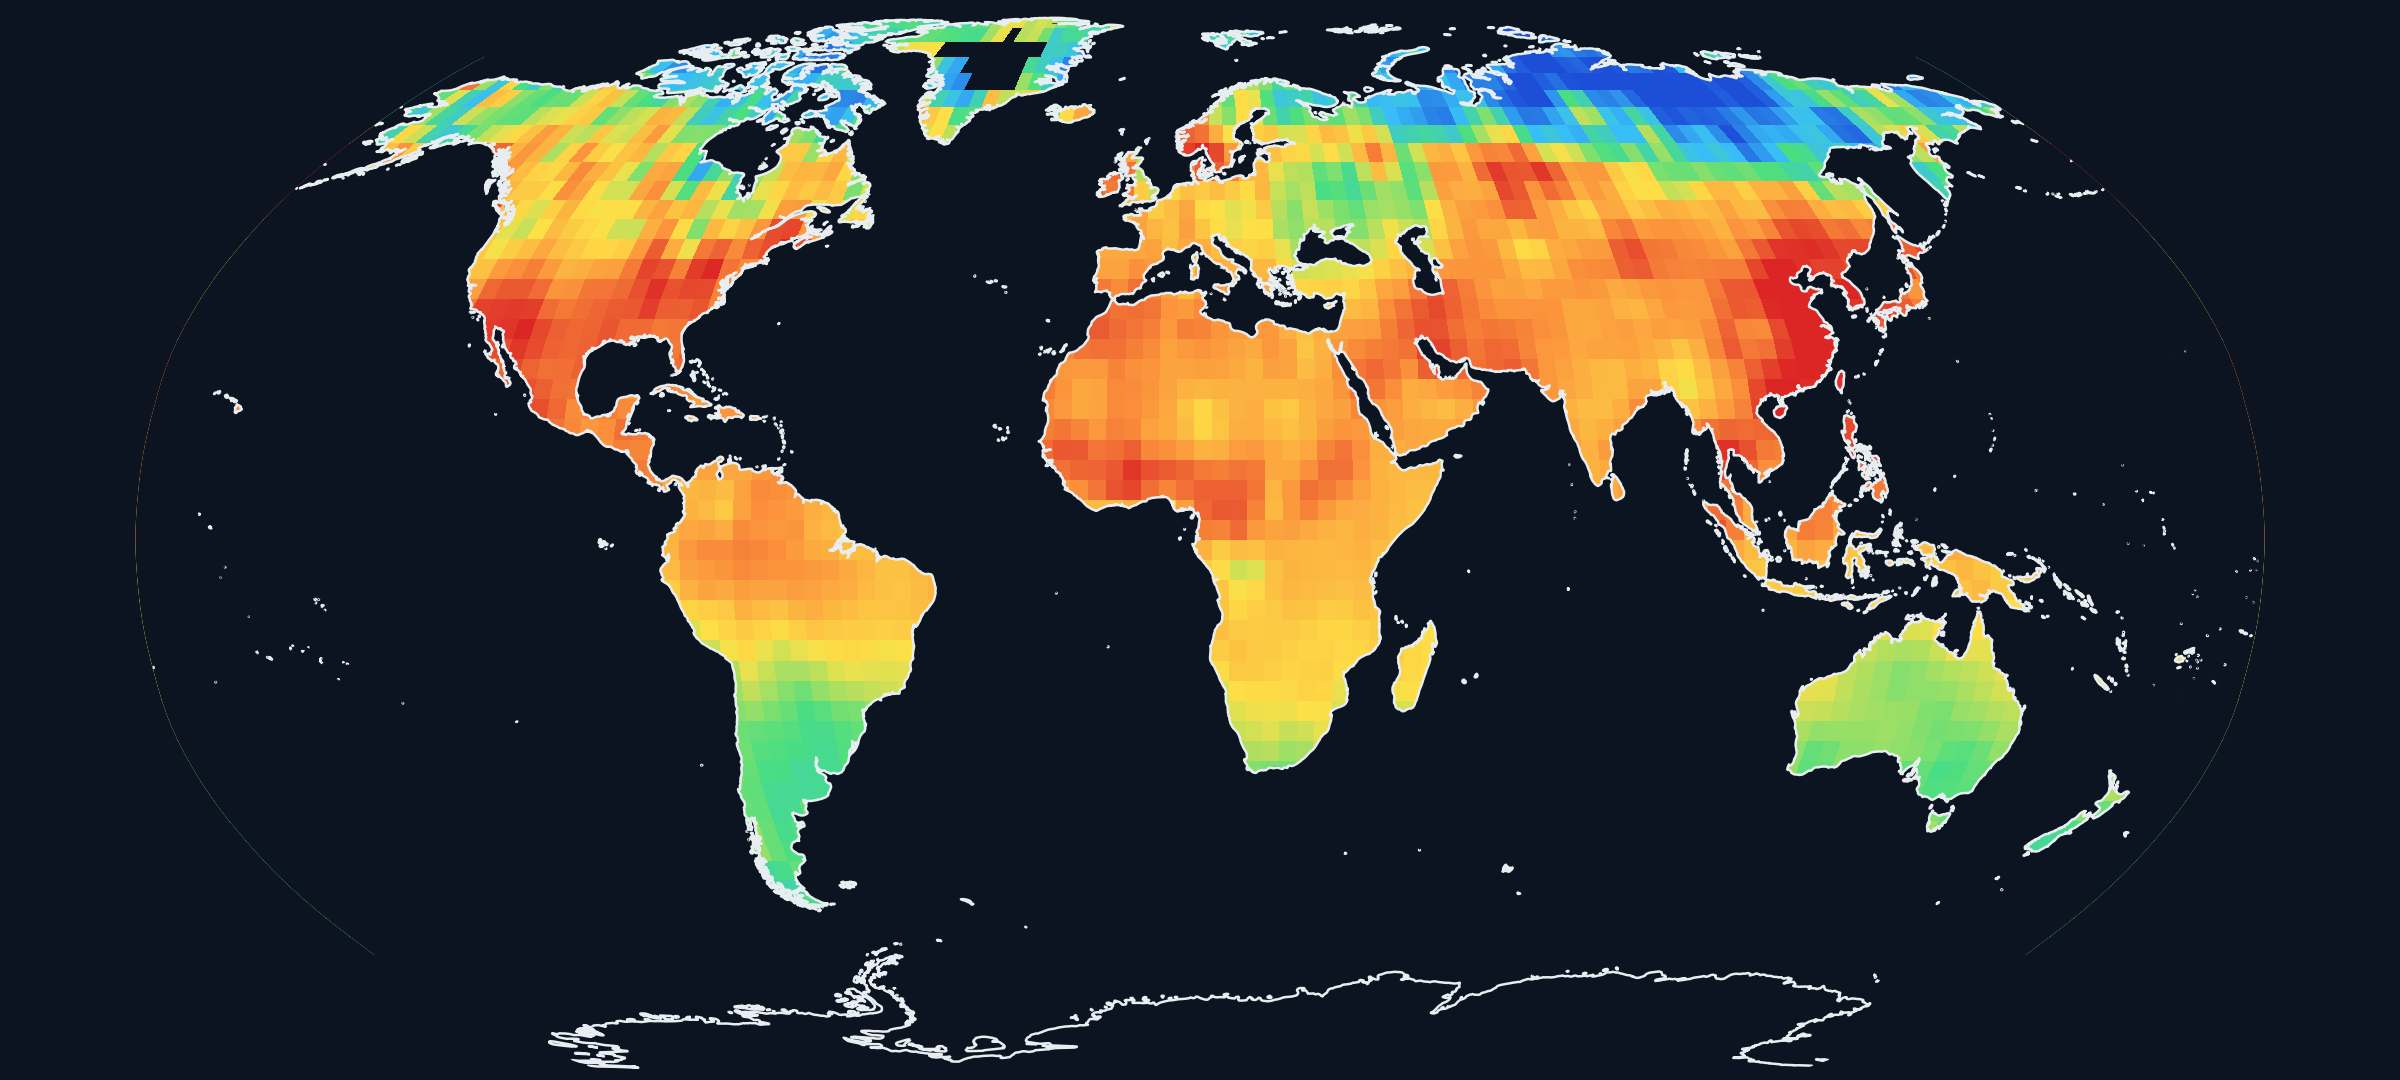
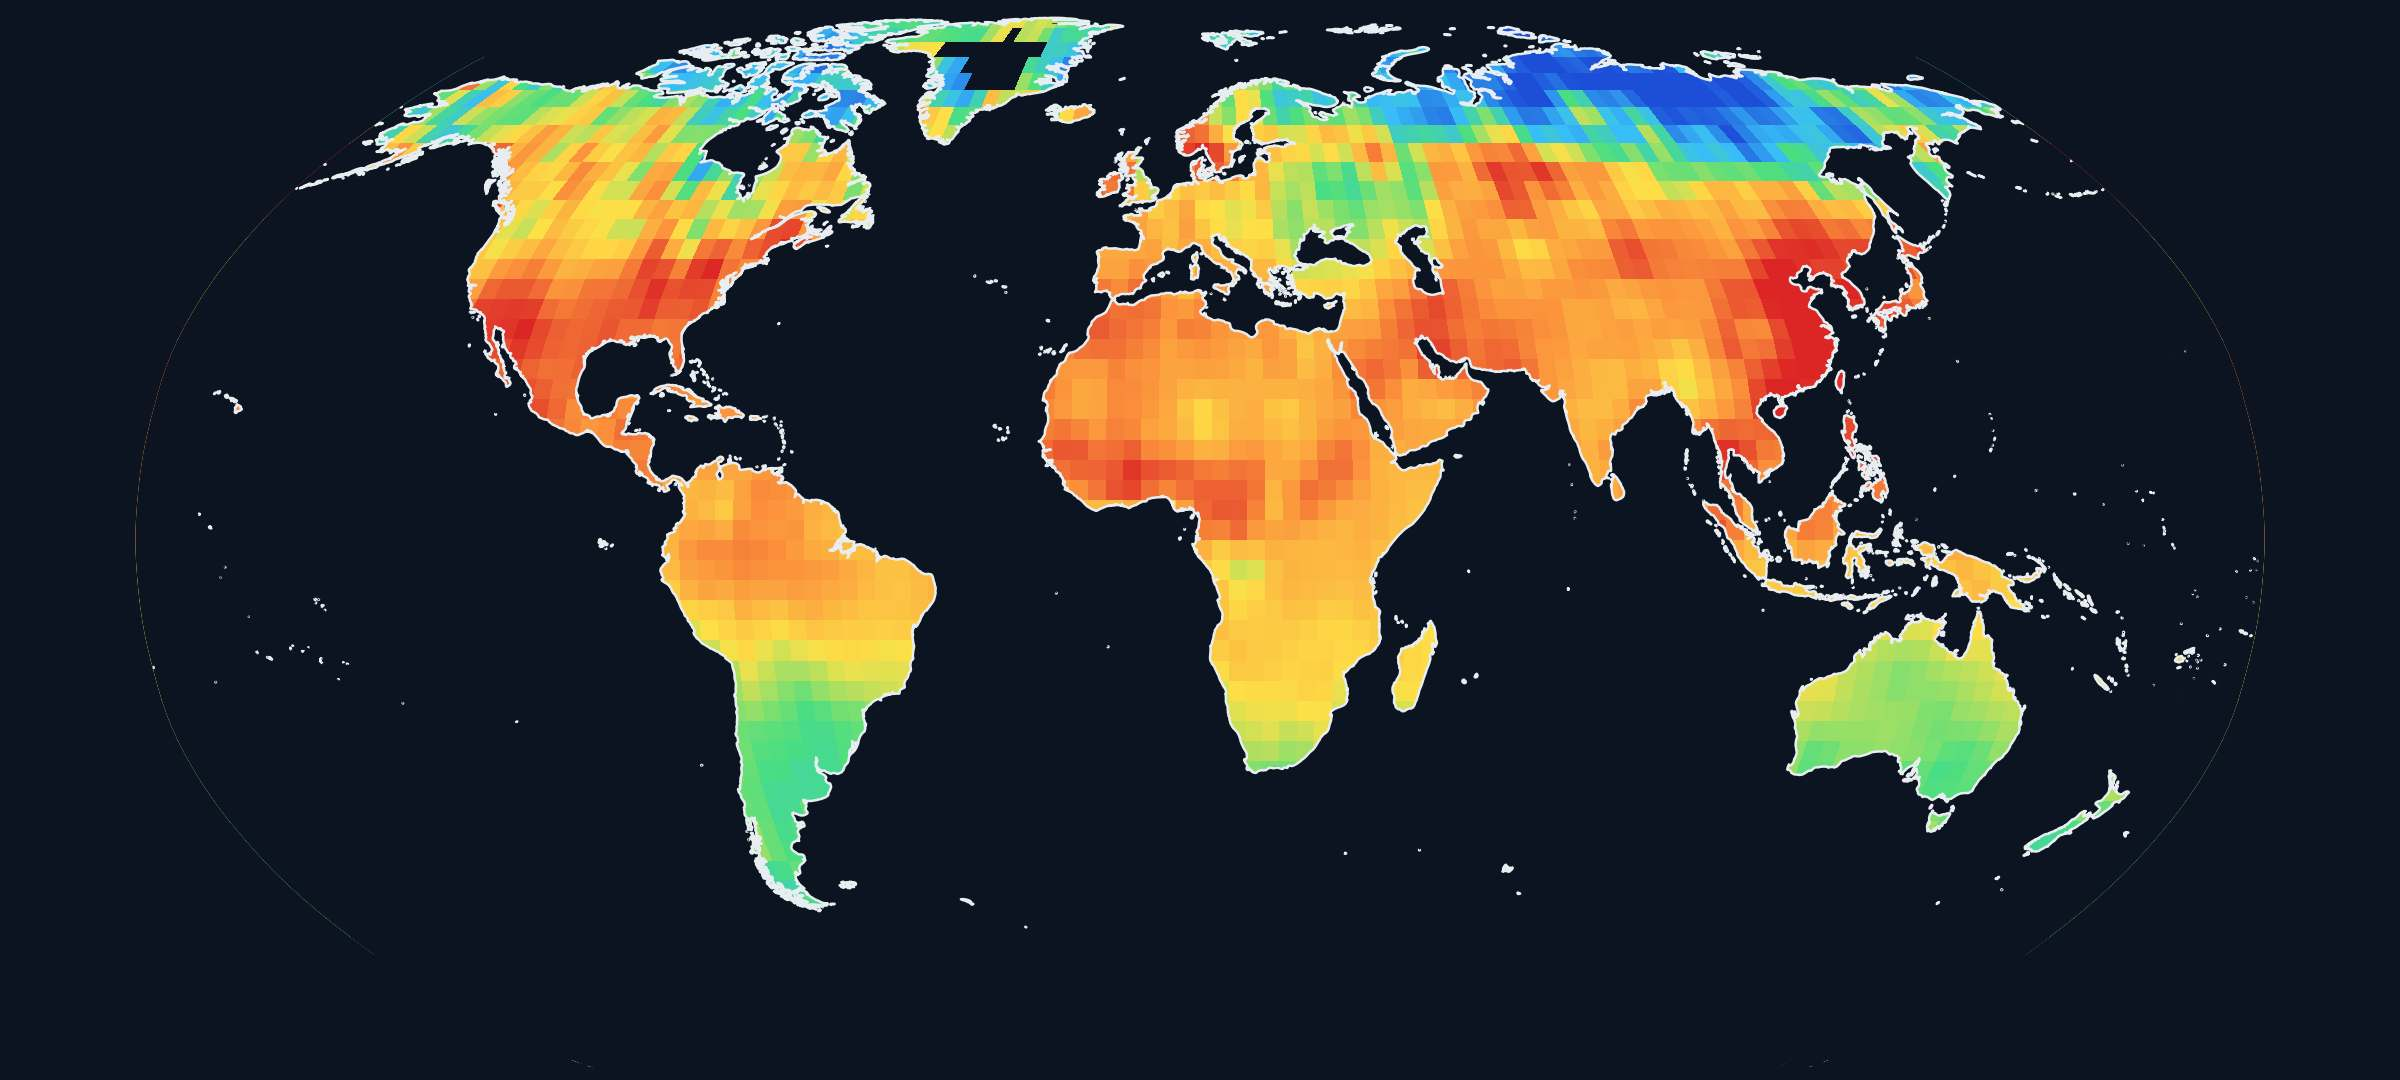
oco: hero image without Antarctica

diff --git a/oco/scripts/make_xco2_hero.py b/oco/scripts/make_xco2_hero.py
@@ -24,5 +24,8 @@ lon = np.arange(-180, 180 + res/2, res); lat = np.arange(-90, 90 + res/2, res)
 pm = ax.pcolormesh(lon, lat, np.ma.masked_invalid(Xs), transform=ccrs.PlateCarree(), cmap=cmap, vmin=lo, vmax=hi, shading="flat", zorder=2)
 ax.add_feature(cfeature.OCEAN.with_scale("110m"), facecolor="#0b1420", edgecolor="none", zorder=3)   # ocean stays dark
 ax.add_feature(cfeature.COASTLINE.with_scale("50m"), edgecolor="#e8edf2", linewidth=1.8, zorder=4)   # bold light outlines
+# Antarctica removed for now (no data there and the polar edge of the projection distracts): paint it as ocean
+import matplotlib.patches as mpatches
+ax.add_patch(mpatches.Rectangle((-180, -90), 360, 30, transform=ccrs.PlateCarree(), facecolor="#0b1420", edgecolor="none", zorder=5))
 fig.savefig(out, dpi=100, pil_kwargs={"quality": 62, "optimize": True, "progressive": True})
 print("wrote", out, f"{os.path.getsize(out)/1e3:.0f} kB")

diff --git a/oco/data/README.md b/oco/data/README.md
@@ -76,7 +76,7 @@ snow 0.955/0.156/0.052, conifer 0.652/0.261/0.112, dry grass 0.517/0.597/0.452.
 
 `img/xco2_hero.jpg` (2400 × 1080, 148 kB): per-cell **median** XCO₂ of all good-quality OCO-2
 Lite v11.2 soundings of 2023 on a 3° grid (29.0 M soundings, 5855 cells), nearest-neighbour
-gap-filled, σ = 0.7 cell smoothing, drawn over land only (ocean left dark), Antarctica masked,
+gap-filled, σ = 0.7 cell smoothing, drawn over land only (ocean left dark), Antarctica removed entirely for now,
 bold light coastlines, Robinson projection, colour range 413.4–420.8 ppm. There is no OCO L3
 product on disk, so this is our own composite; annual medians at high latitudes are biased low by
 summer-only sampling (the blue Siberia).
